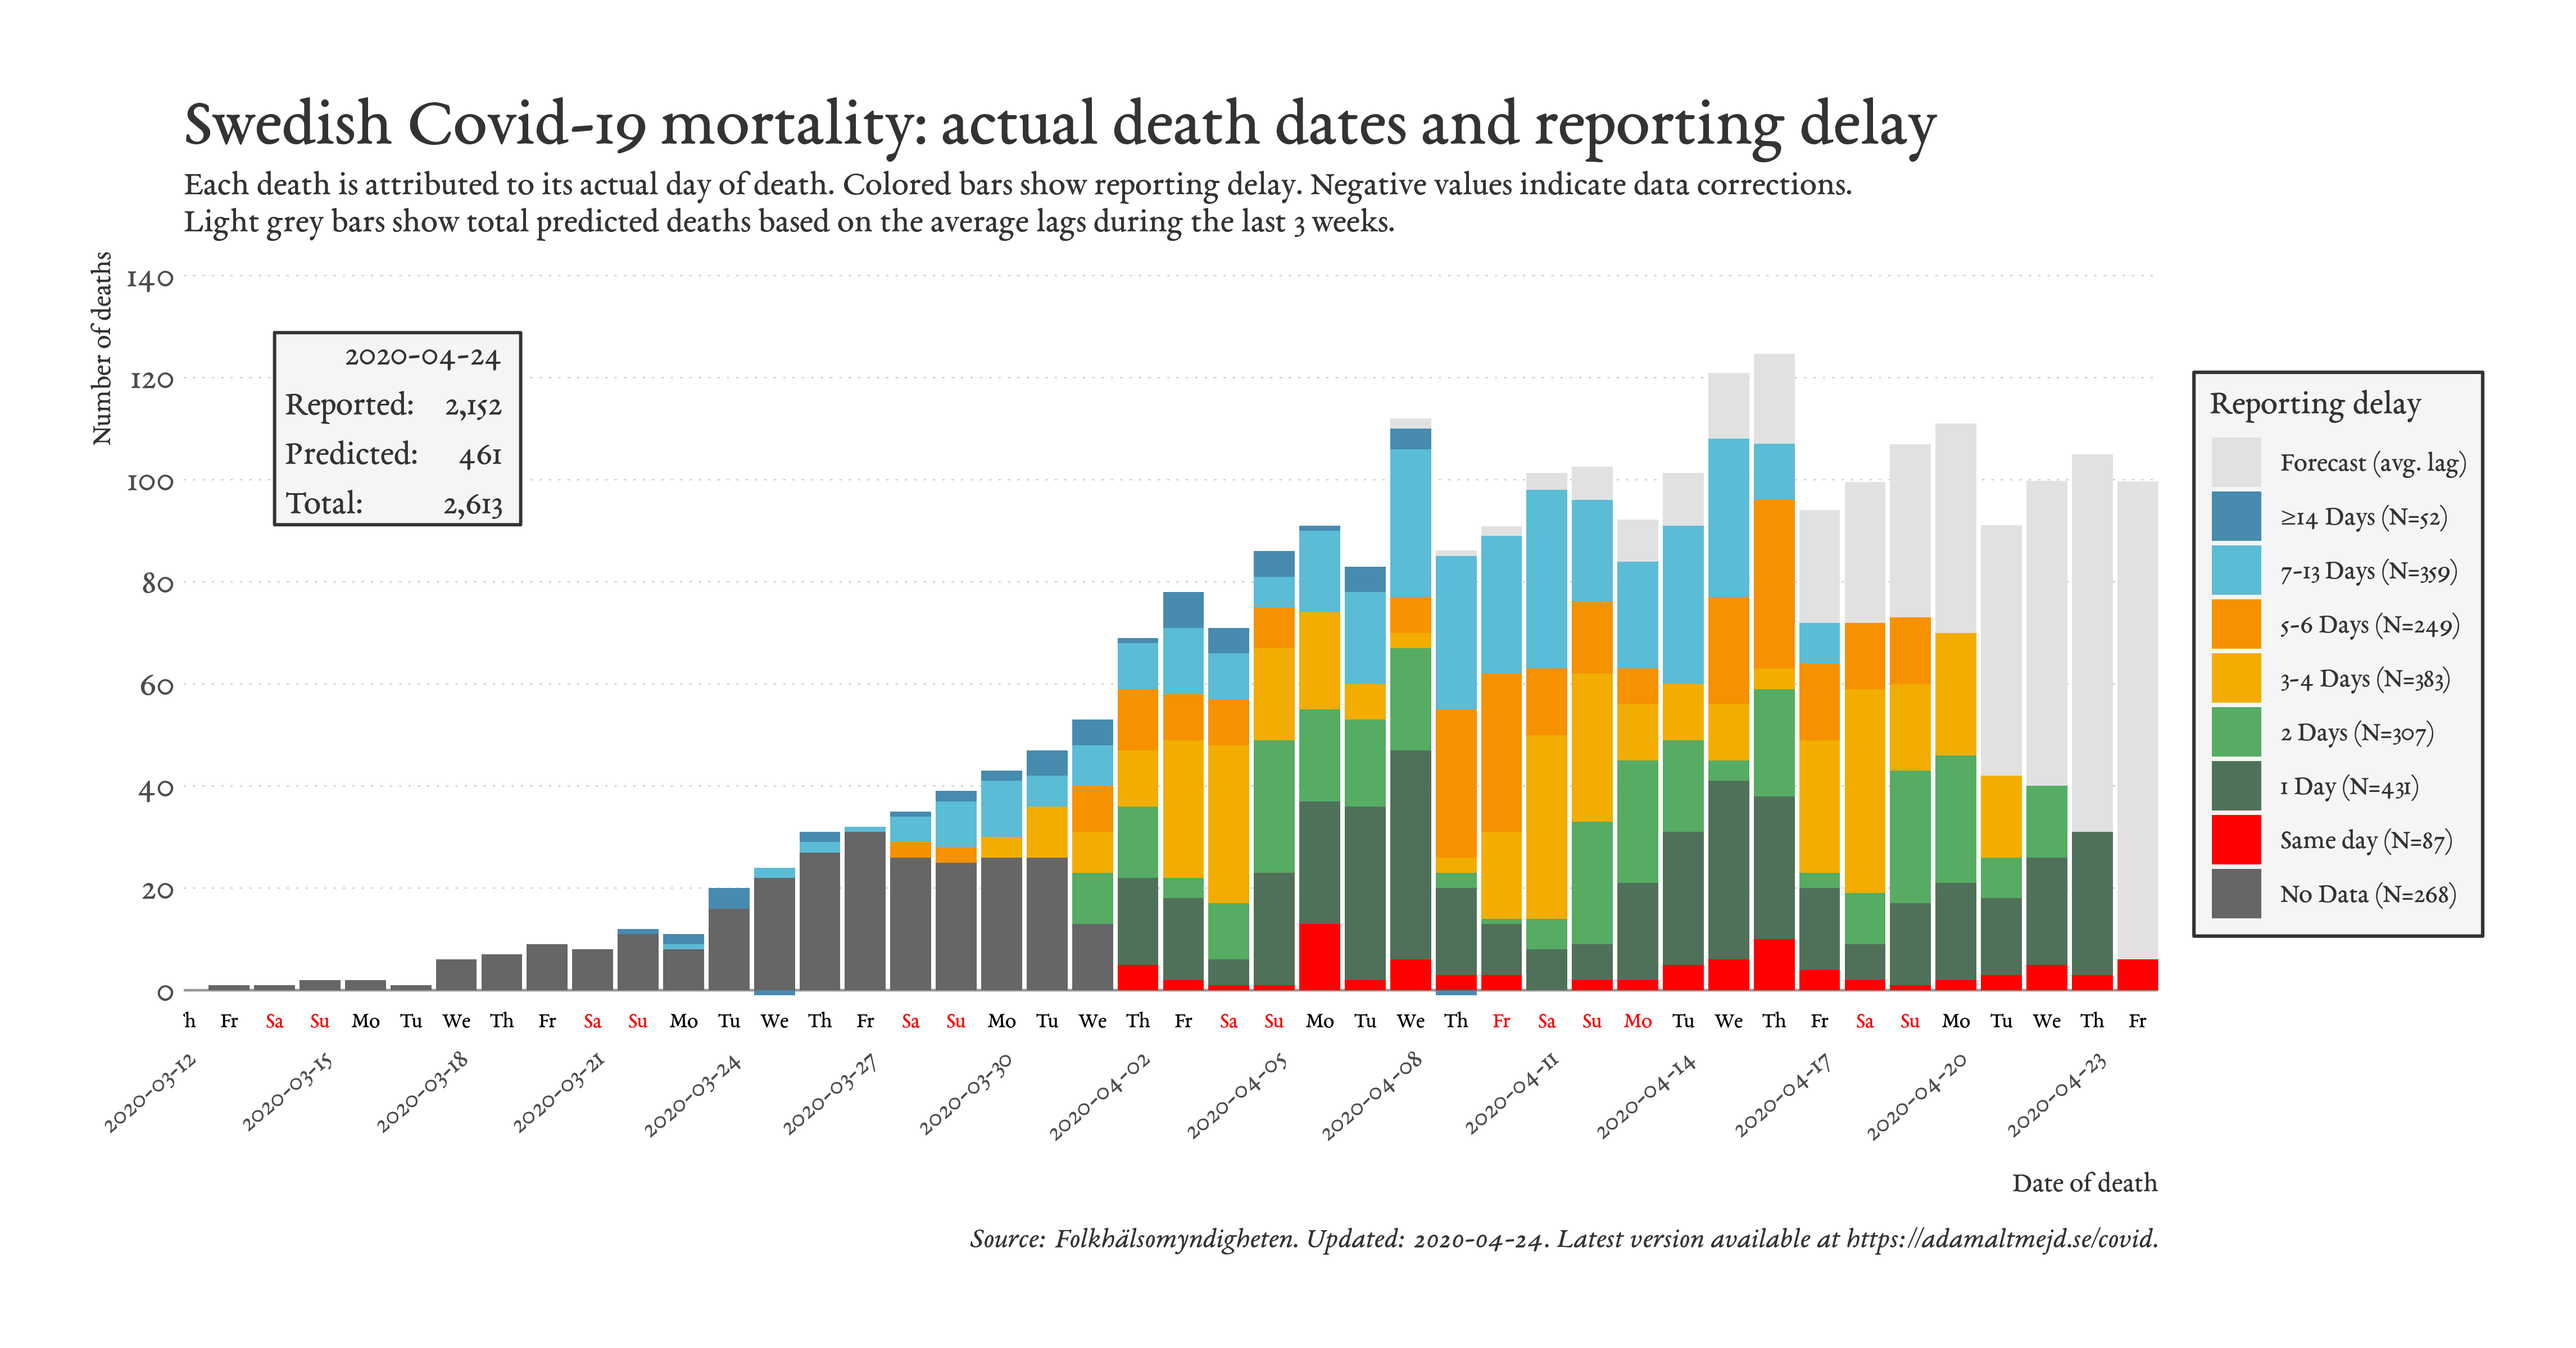
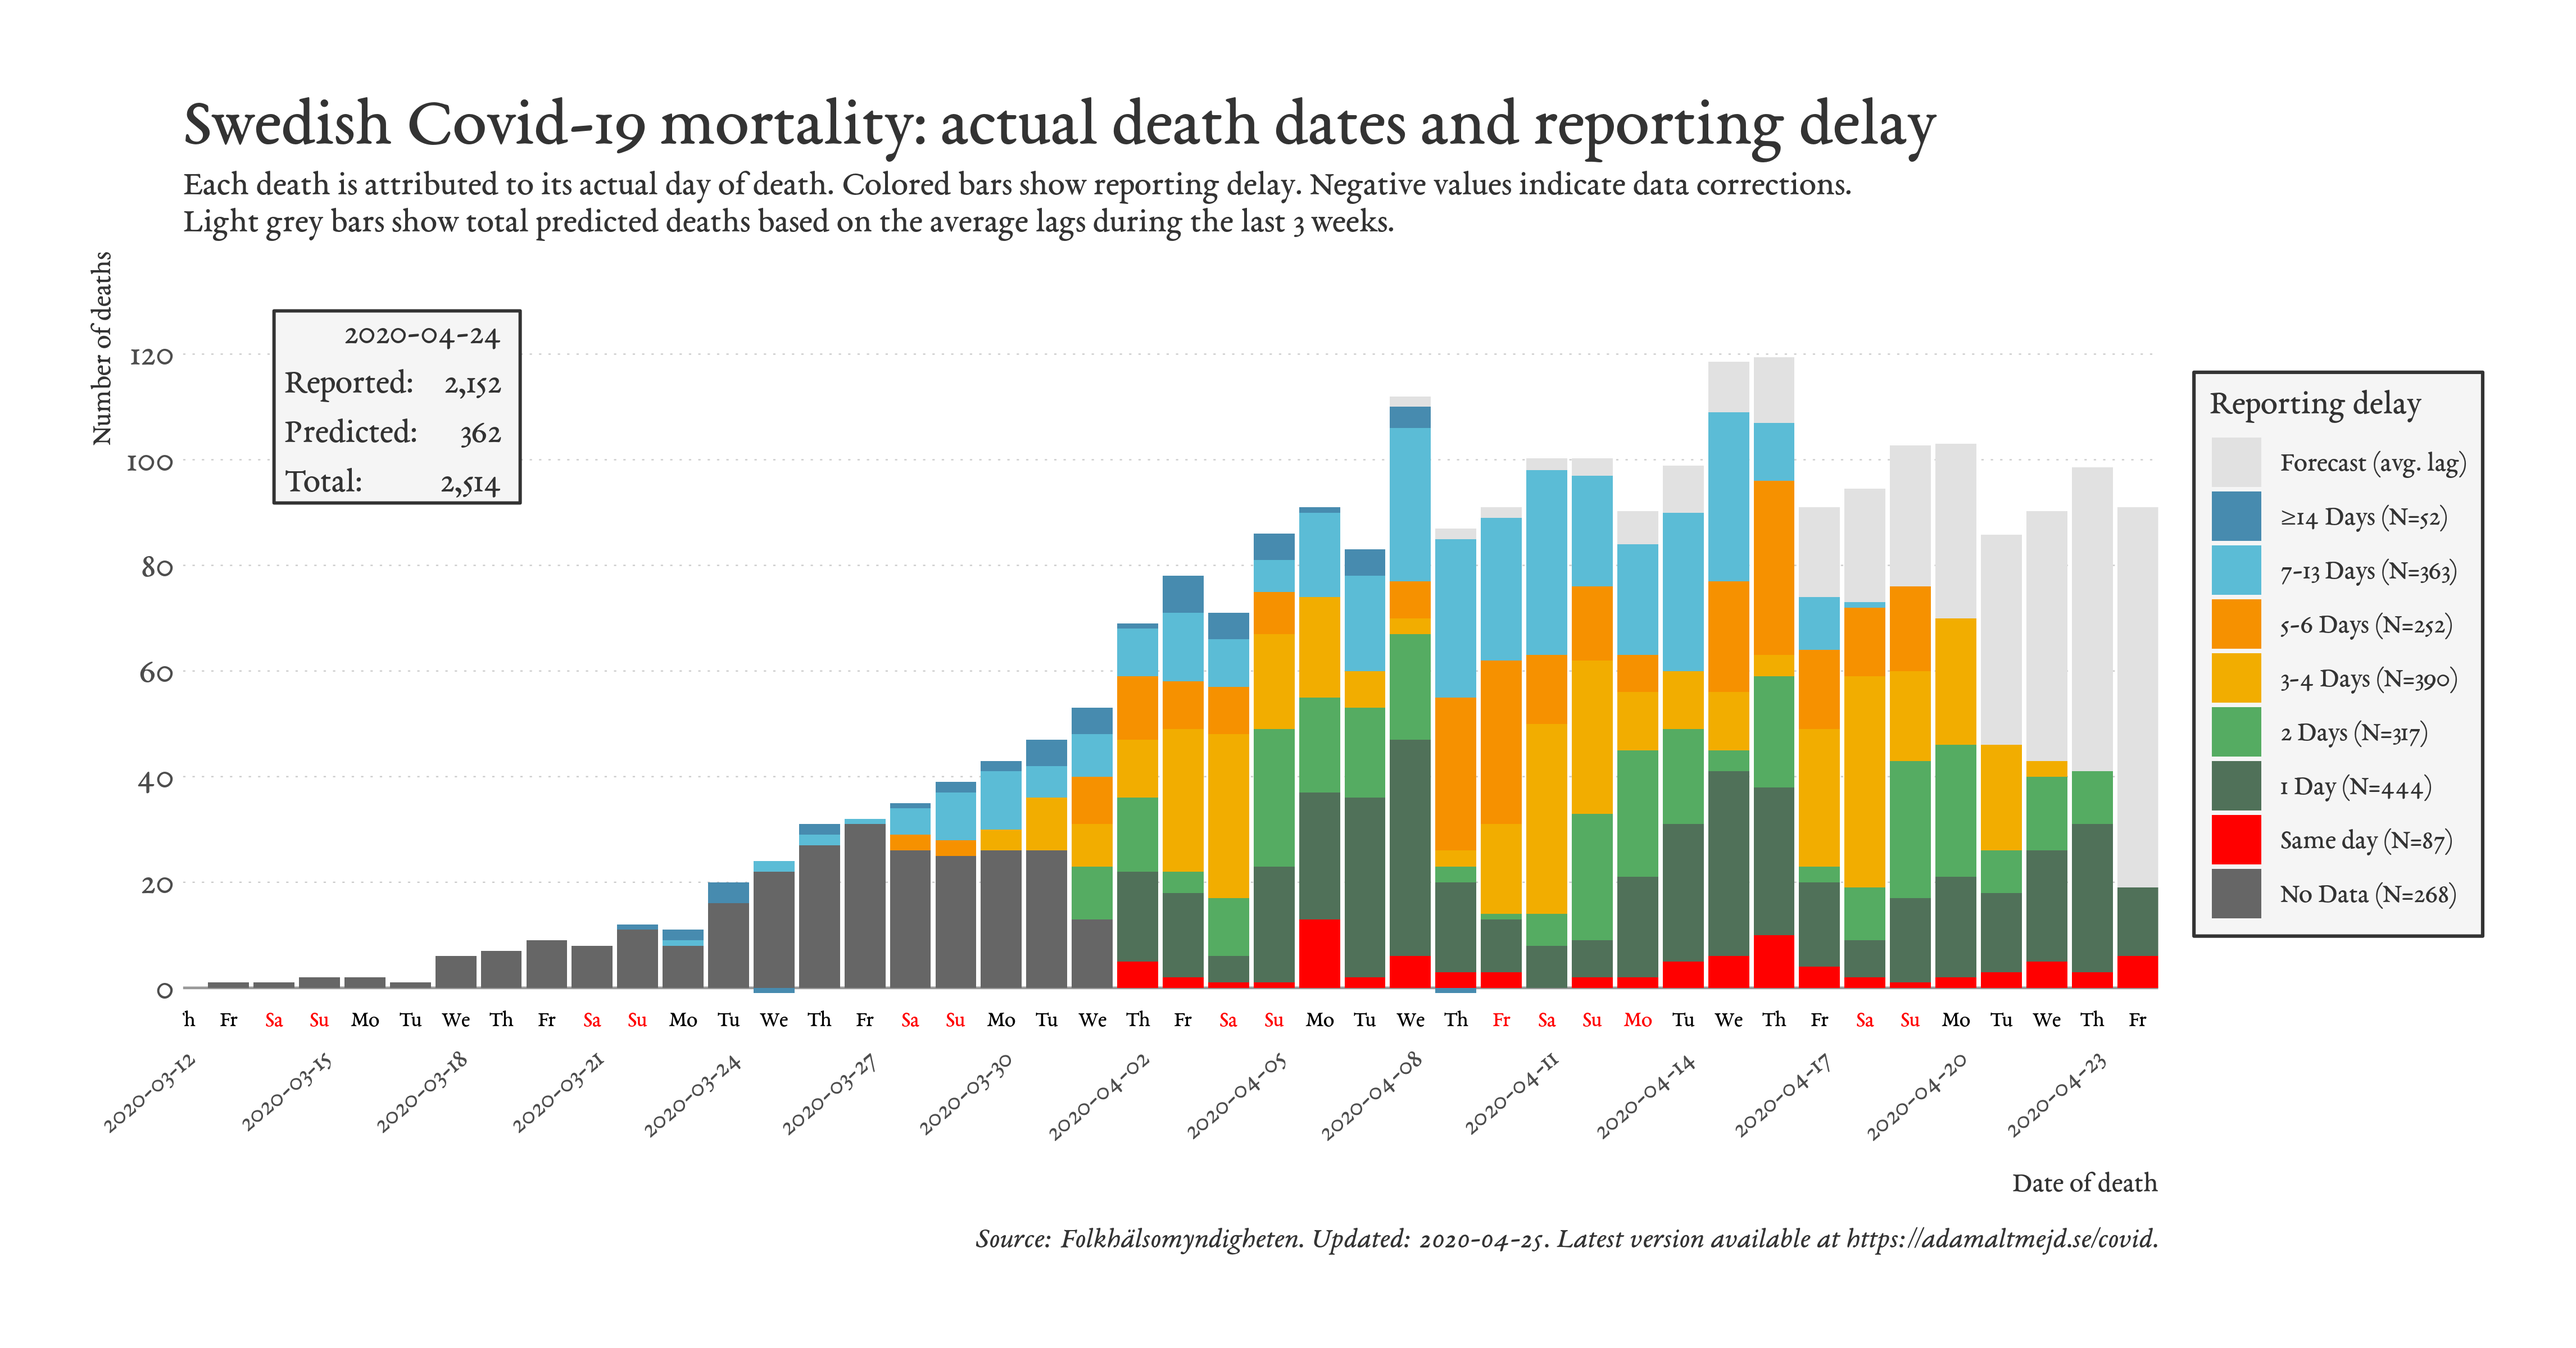
Github Action autocommit

diff --git a/docs/index.md b/docs/index.md
@@ -2,8 +2,8 @@
 layout: page
 title: Reported Covid-19 deaths in Sweden
 author: Adam Altmejd
-date: 2020-04-24
+date: 2020-04-25
 ---
 
-![Graph of Swedish Covid-19 deaths with reporting delay.](deaths_lag_sweden_2020-04-24.png "Reporting delay in Swedish covid-19 deaths.")
+![Graph of Swedish Covid-19 deaths with reporting delay.](deaths_lag_sweden_2020-04-25.png "Reporting delay in Swedish covid-19 deaths.")
 For code and data, visit <https://github.com/adamaltmejd/covid>.
